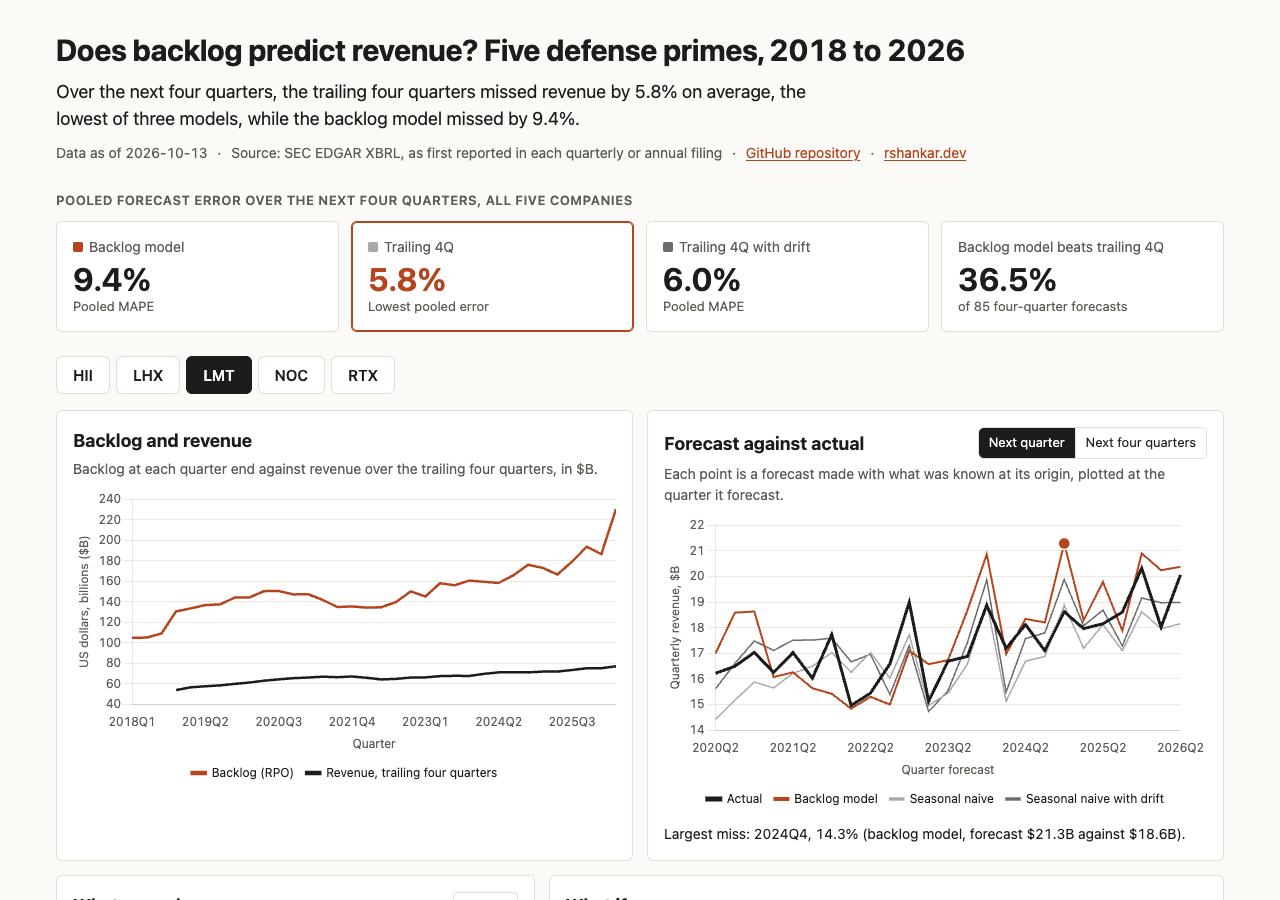
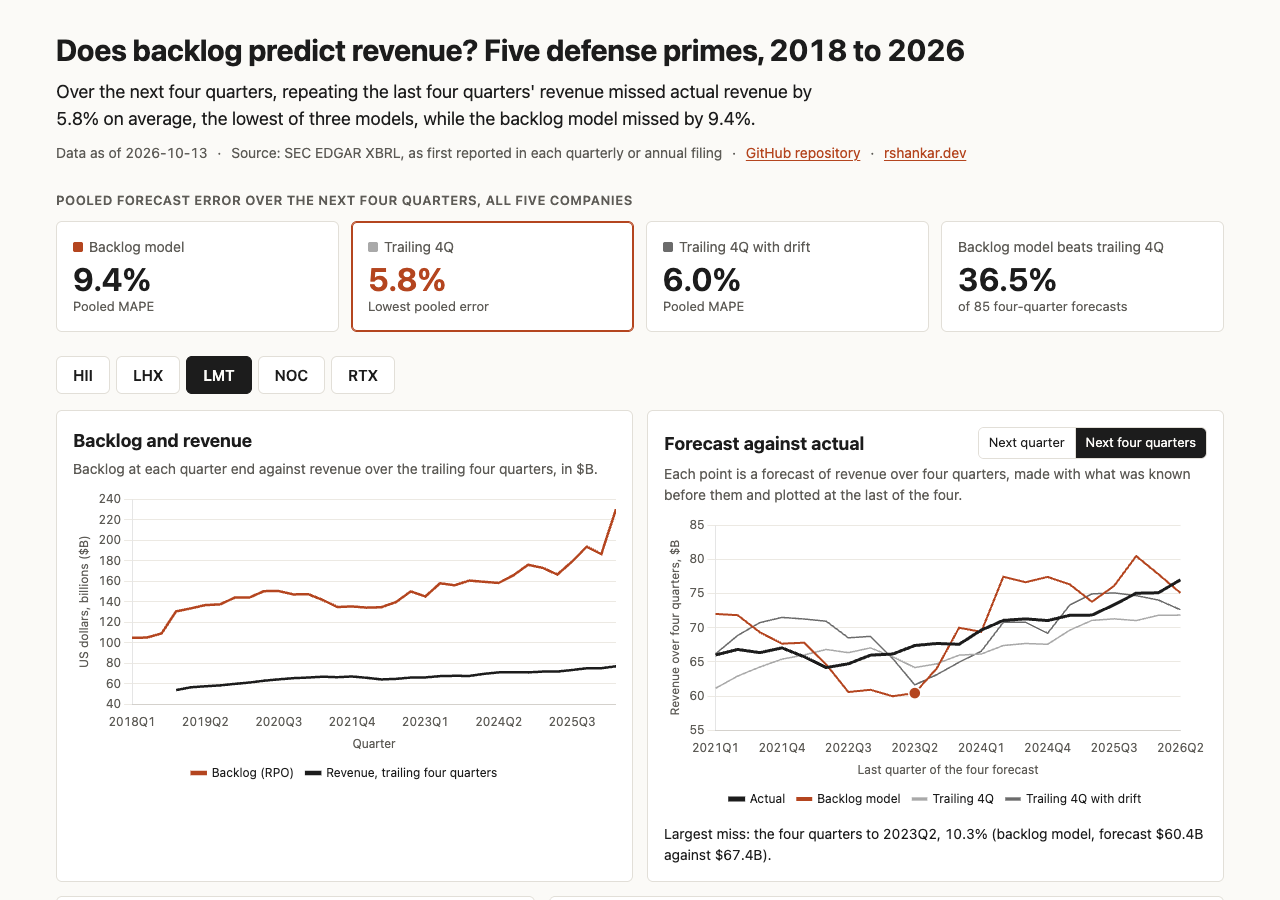
Plainer results wording, Pages links, notes

diff --git a/site/app.js b/site/app.js
@@ -6,11 +6,15 @@
     h1: { backlog: "Backlog model", naive: "Seasonal naive", naive_drift: "Seasonal naive with drift" },
     h4: { backlog: "Backlog model", naive: "Trailing 4Q", naive_drift: "Trailing 4Q with drift" }
   };
-  var PHRASE = { backlog: "the backlog model", naive: "the trailing four quarters", naive_drift: "the trailing four quarters with drift" };
+  var PHRASE = {
+    backlog: "the backlog model",
+    naive: "repeating the last four quarters' revenue",
+    naive_drift: "repeating the last four quarters' revenue grown at its recent rate"
+  };
   var MODELS = ["backlog", "naive", "naive_drift"];
 
   var data, tickers, charts = {};
-  var state = { ticker: null, view: "h1", year: null, shock: null, shift: null };
+  var state = { ticker: null, view: "h4", year: null, shock: null, shift: null };
   var reduceMotion = window.matchMedia("(prefers-reduced-motion: reduce)");
   var darkMode = window.matchMedia("(prefers-color-scheme: dark)");
 
@@ -61,7 +65,7 @@
   function renderHeader() {
     var m = data.metrics, h4 = m.mape.H4;
     var best = MODELS.slice().sort(function (a, b) { return h4[a].ALL - h4[b].ALL; })[0];
-    var line = "Over the next four quarters, " + PHRASE[best] + " missed revenue by " + pct(h4[best].ALL) +
+    var line = "Over the next four quarters, " + PHRASE[best] + " missed actual revenue by " + pct(h4[best].ALL) +
       " on average, the lowest of three models";
     line += best === "backlog" ? "." : ", while the backlog model missed by " + pct(h4.backlog.ALL) + ".";
     $("headline").textContent = line;
@@ -149,7 +153,7 @@
     $("c-backlog").setAttribute("aria-label", co.ticker + " backlog and trailing four-quarter revenue by quarter. At " +
       co.quarters[L] + ", backlog was " + billions(co.backlog_usd[L]) + " and trailing revenue " + billions(co.ttm_revenue_usd[L]) + ".");
     $("backlog-note").textContent = "Backlog at each quarter end against revenue over the trailing four quarters, in $B." +
-      (gaps.length ? " Breaks in the backlog line are quarters with no backlog tagged in the filing: " + gaps.join(", ") + "." : "");
+      (gaps.length ? " Breaks in the backlog line are quarters whose filings tag no backlog for the quarter's own end: " + gaps.join(", ") + "." : "");
   }
 
   function renderForecast(co, c) {
@@ -192,10 +196,14 @@
     makeChart("c-fc", { type: "line", data: { labels: block.target, datasets: datasets }, options: opts });
 
     var skipped = block.backlog.filter(function (x) { return x == null; }).length;
-    var cap = worst >= 0 ? "Largest miss: " + block.target[worst] + ", " + pct(apes.backlog[worst]) +
+    var when = v === "h1" ? block.target[worst] : "the four quarters to " + block.target[worst];
+    var cap = worst >= 0 ? "Largest miss: " + when + ", " + pct(apes.backlog[worst]) +
       " (backlog model, forecast " + billions(block.backlog[worst]) + " against " + billions(actual[worst]) + ")." : "";
     if (skipped) cap += " The backlog model skips " + skipped + " origins that need a quarter with no tagged backlog.";
     $("miss").textContent = cap;
+    $("fc-note").textContent = v === "h1"
+      ? "Each point is a forecast of one quarter's revenue, made with what was known a quarter earlier and plotted at the quarter it forecast."
+      : "Each point is a forecast of revenue over four quarters, made with what was known before them and plotted at the last of the four.";
 
     var mape = data.metrics.mape[v.toUpperCase()];
     $("c-fc").setAttribute("aria-label", co.ticker + " " + (v === "h1" ? "next-quarter" : "next-four-quarter") +
@@ -235,7 +243,8 @@
     var yLo = Math.max(0, (lo - pad) / 1e9), yHi = (hi + pad * 0.5) / 1e9;
     var step = Math.pow(10, Math.floor(Math.log10(yHi - yLo)));
     if ((yHi - yLo) / step < 3) step /= 2;
-    opts.scales.y.min = Math.floor(yLo / step) * step;
+    var yMin = Math.floor(yLo / step) * step;
+    opts.scales.y.min = yMin;
     opts.scales.y.max = Math.ceil(yHi / step) * step;
     opts.scales.y.ticks.stepSize = step;
     opts.plugins.tooltip.callbacks = {
@@ -263,7 +272,7 @@
       (r.conversion_prior.toFixed(2) === r.conversion.toFixed(2)
         ? "Conversion held at " + r.conversion.toFixed(2) + " of starting backlog."
         : "Conversion went from " + r.conversion_prior.toFixed(2) + " to " + r.conversion.toFixed(2) + " of starting backlog.") +
-      " The axis starts above zero.";
+      (yMin > 0 ? " The axis starts above zero." : "");
     $("bridge-cap").textContent = cap;
     $("c-bridge").setAttribute("aria-label", co.ticker + " revenue bridge for " + state.year + ". " + cap);
   }
@@ -297,8 +306,14 @@
     $("shock-out").textContent = signedPct(state.shock);
     $("shift-out").textContent = signedPct(state.shift, " pp");
     $("fwd").textContent = billions(val);
-    $("fwd-delta").textContent = d === 0 ? "No change from today's backlog and conversion: " + billions(base)
-      : signedBillions(d) + " (" + (d < 0 ? "−" : "+") + Math.abs(d / base * 100).toFixed(1) + "%) against " + billions(base) + " with no change";
+    $("fwd-delta").textContent = d === 0 ? "Latest backlog at the average conversion rate of the past four origins: " + billions(base)
+      : signedBillions(d) + " (" + (d < 0 ? "−" : "+") + Math.abs(d / base * 100).toFixed(1) + "%) against " + billions(base) + " with no shock or shift";
+    var L = co.quarters.length - 1, ttm = co.ttm_revenue_usd[L], bias = data.metrics.bias.H4.backlog[co.ticker];
+    var gap = (base / ttm - 1) * 100;
+    $("fwd-context").textContent = "Revenue over the four quarters to " + co.quarters[L] + " was " + billions(ttm) +
+      ", so the unshocked scenario sits " + Math.abs(gap).toFixed(1) + "% " + (gap >= 0 ? "above" : "below") + " it." +
+      (bias == null ? "" : " In the backtest the backlog model's four-quarter forecasts for " + co.ticker + " ran " +
+        Math.abs(bias).toFixed(1) + "% " + (bias >= 0 ? "high" : "low") + " on average.");
 
     var all = co.sensitivity.map(function (r) { return r.forward_revenue_usd; });
     var mn = Math.min.apply(null, all), mx = Math.max.apply(null, all);
@@ -350,7 +365,7 @@
 
   function syncQuery() {
     var q = new URLSearchParams(location.search);
-    if (state.view !== "h1") q.set("view", state.view); else q.delete("view");
+    if (state.view !== "h4") q.set("view", state.view); else q.delete("view");
     if (state.shock) q.set("shock", state.shock); else q.delete("shock");
     if (state.shift) q.set("shift", state.shift); else q.delete("shift");
     var s = q.toString();

diff --git a/site/index.html b/site/index.html
@@ -41,11 +41,11 @@
       <div class="row">
         <h2 id="fc-title">Forecast against actual</h2>
         <div class="seg" role="group" aria-label="Forecast horizon">
-          <button type="button" data-view="h1" aria-pressed="true">Next quarter</button>
-          <button type="button" data-view="h4" aria-pressed="false">Next four quarters</button>
+          <button type="button" data-view="h1" aria-pressed="false">Next quarter</button>
+          <button type="button" data-view="h4" aria-pressed="true">Next four quarters</button>
         </div>
       </div>
-      <p class="note" id="fc-note">Each point is a forecast made with what was known at its origin, plotted at the quarter it forecast.</p>
+      <p class="note" id="fc-note">Each point is a forecast made with what was known at its origin.</p>
       <div class="chart"><canvas id="c-fc" role="img" aria-label="Forecast against actual chart"></canvas></div>
       <p class="caption" id="miss"></p>
     </section>
@@ -62,7 +62,7 @@
 
     <section class="panel wide" aria-labelledby="whatif-title">
       <h2 id="whatif-title">What if</h2>
-      <p class="note">A scenario, not a prediction. Move backlog and the four-quarter conversion rate away from where they stand at the latest quarter and read the revenue they imply for the next four quarters.</p>
+      <p class="note">A scenario, not a prediction. Start from the latest backlog and the average four-quarter conversion rate of the four origins one to two years back, shift either one, and read the revenue they imply for the next four quarters.</p>
       <div class="whatif">
         <div class="controls">
           <label for="shock">Backlog shock <output id="shock-out" for="shock"></output></label>
@@ -75,6 +75,7 @@
             <div class="big-label">Scenario revenue, next four quarters</div>
             <div class="big-num" id="fwd"></div>
             <div class="big-delta" id="fwd-delta"></div>
+            <p class="big-context" id="fwd-context"></p>
           </div>
         </div>
         <div class="grid-wrap">

diff --git a/site/style.css b/site/style.css
@@ -103,6 +103,7 @@ h2 { font-size: 18px; margin: 0; }
 .big-label { font-size: 13px; color: var(--muted); }
 .big-num { font-size: 38px; font-weight: 650; line-height: 1.1; }
 .big-delta { font-size: 14px; color: var(--muted); }
+.big-context { font-size: 13px; color: var(--ink); margin: 8px 0 0; }
 
 .grid-wrap { min-width: 0; }
 .grid { width: 100%; border-collapse: separate; border-spacing: 3px; font-size: 13px; table-layout: fixed; }

diff --git a/src/dbf/report.py b/src/dbf/report.py
@@ -1,44 +1,72 @@
-"""Rewrite the README's ## Results from results/metrics.json. Running it twice changes nothing."""
+"""Rewrite the README's ## Results from results/. Running it twice changes nothing."""
 
+import csv
 import json
 import re
 
 from dbf.config import RESULTS, ROOT, TICKERS
 
+MODELS = ["backlog", "naive", "naive_drift"]
 NAMES = {
     "H1": {"backlog": "Backlog model", "naive": "Seasonal naive", "naive_drift": "Seasonal naive with drift"},
     "H4": {"backlog": "Backlog model", "naive": "Trailing 4Q", "naive_drift": "Trailing 4Q with drift"},
 }
+HORIZON = {"H1": "Next quarter (H1)", "H4": "Next four quarters (H4)"}
+PHRASE = {"backlog": "the backlog model", "naive": "trailing four-quarter revenue",
+          "naive_drift": "trailing revenue with drift"}
 
 
-PHRASE = {"backlog": "backlog model", "naive": "trailing 4Q baseline",
-          "naive_drift": "trailing 4Q with drift baseline"}
-
-
-def _pct(v, places=2):
+def _pct(v, places=1):
     return "n/a" if v is None else f"{v:.{places}f}%"
 
 
-def results_section(m: dict) -> str:
+def matched_ranking(backtest_rows, horizon) -> tuple[list[str], int, list[str]]:
+    """Model order by MAPE on the origins where the backlog model has a forecast."""
+    rows = [r for r in backtest_rows if r["horizon"] == horizon]
+    keep = {(r["ticker"], r["origin"]) for r in rows if r["model"] == "backlog"}
+    mape = {}
+    for m in MODELS:
+        apes = [float(r["ape_pct"]) for r in rows if r["model"] == m and (r["ticker"], r["origin"]) in keep]
+        mape[m] = sum(apes) / len(apes)
+    extra = [r["ticker"] for r in rows if r["model"] == "naive" and (r["ticker"], r["origin"]) not in keep]
+    return sorted(MODELS, key=mape.get), len(extra), sorted(set(extra))
+
+
+def results_section(m: dict, backtest_rows: list[dict]) -> str:
     h4 = m["mape"]["H4"]
-    order = sorted(h4, key=lambda k: h4[k]["ALL"])
-    best, others = order[0], order[1:]
+    order = sorted(MODELS, key=lambda k: h4[k]["ALL"])
+    best = order[0]
     lines = []
-    lead = (f"Over the next four quarters (H4), the {PHRASE[best]} had the lowest pooled MAPE at "
-            f"{_pct(h4[best]['ALL'])}, against "
-            + " and ".join(f"{_pct(h4[k]['ALL'])} for the {PHRASE[k]}" for k in others) + ".")
-    verdict = ("Backlog at quarter end forecast revenue better than last year's revenue did."
-               if best == "backlog" else
-               "Backlog at quarter end did not forecast revenue better than last year's revenue did.")
-    lines += [lead + " " + verdict, ""]
+    if best == "backlog":
+        lead = "Backlog beat simple trailing revenue."
+    else:
+        lead = "Backlog did not beat simple trailing revenue."
+    lead += (" Over the next four quarters, the backlog model missed actual revenue by "
+             f"{_pct(h4['backlog']['ALL'])} on average, against "
+             + " and ".join(f"{_pct(h4[k]['ALL'])} for {PHRASE[k]}" for k in MODELS if k != "backlog") + ".")
+    winners = [t for t in TICKERS if h4["backlog"][t] is not None
+               and all(h4["backlog"][t] < h4[k][t] for k in ("naive", "naive_drift"))]
+    if winners and best != "backlog":
+        detail = [f"{_pct(h4['backlog'][t])} for backlog against {_pct(h4['naive'][t])} for trailing "
+                  f"four-quarter revenue" for t in winners]
+        if len(winners) == 1:
+            lead += f" {winners[0]} was the exception, at {detail[0]}."
+        else:
+            lead += " The exceptions were " + "; ".join(f"{t}, at {d}" for t, d in zip(winners, detail)) + "."
+    ranking, extra, where = matched_ranking(backtest_rows, "H4")
+    same = ranking == order
+    if extra:
+        lead += (f" The baselines also score {extra} {' and '.join(where)} origins where backlog is missing; on the "
+                 f"origins all three models share, the ranking is {'the same' if same else 'different'}.")
+    lines += [lead, ""]
 
     lines += ["MAPE by horizon, model and company (lower is better):", ""]
     lines += ["| Horizon | Model | ALL | " + " | ".join(TICKERS) + " |",
               "|---|---|---:|" + "---:|" * len(TICKERS)]
     for h in ("H1", "H4"):
-        for k in ("backlog", "naive", "naive_drift"):
+        for k in MODELS:
             row = m["mape"][h][k]
-            lines.append(f"| {h} | {NAMES[h][k]} | {_pct(row['ALL'])} | "
+            lines.append(f"| {HORIZON[h]} | {NAMES[h][k]} | {_pct(row['ALL'])} | "
                          + " | ".join(_pct(row[t]) for t in TICKERS) + " |")
     lines.append("")
 
@@ -46,8 +74,8 @@ def results_section(m: dict) -> str:
     b = m["bias"]
     lines += [
         "The backlog model's error was smaller than the naive baseline's (seasonal naive at H1, "
-        f"trailing 4Q at H4) at {_pct(w['H1']['ALL'], 1)} of H1 origins and "
-        f"{_pct(w['H4']['ALL'], 1)} of H4 origins. "
+        f"trailing 4Q at H4) at {_pct(w['H1']['ALL'])} of H1 origins and "
+        f"{_pct(w['H4']['ALL'])} of H4 origins. "
         f"Its mean signed error was {_pct(b['H1']['backlog']['ALL'])} at H1 and "
         f"{_pct(b['H4']['backlog']['ALL'])} at H4, where a positive value means it forecast too high.",
         "",
@@ -55,8 +83,8 @@ def results_section(m: dict) -> str:
         "|---|---:|" + "---:|" * len(TICKERS),
     ]
     for h in ("H1", "H4"):
-        lines.append(f"| {h} | {_pct(w[h]['ALL'], 1)} | "
-                     + " | ".join(_pct(w[h][t], 1) for t in TICKERS) + " |")
+        lines.append(f"| {HORIZON[h]} | {_pct(w[h]['ALL'])} | "
+                     + " | ".join(_pct(w[h][t]) for t in TICKERS) + " |")
     lines += [
         "",
         f"The backtest scores {m['n']['H1']} backlog-model forecasts at H1 and {m['n']['H4']} at H4. "
@@ -68,11 +96,13 @@ def results_section(m: dict) -> str:
 
 def build(readme=ROOT / "README.md") -> None:
     m = json.loads((RESULTS / "metrics.json").read_text())
+    with (RESULTS / "backtest.csv").open() as fh:
+        backtest_rows = list(csv.DictReader(fh))
     text = readme.read_text()
     pattern = re.compile(r"(## Results\n\n).*?(?=## Method\n)", re.S)
     if not pattern.search(text):
         raise SystemExit("README.md needs a '## Results' section followed by '## Method'")
-    new = pattern.sub(lambda mt: mt.group(1) + results_section(m) + "\n", text, count=1)
+    new = pattern.sub(lambda mt: mt.group(1) + results_section(m, backtest_rows) + "\n", text, count=1)
     if new != text:
         readme.write_text(new)
     print("README ## Results", "updated" if new != text else "unchanged")

diff --git a/src/dbf/charts.py b/src/dbf/charts.py
@@ -109,8 +109,8 @@ def backlog_chart(data):
     leg.plot([], [], color=INK, lw=3, label="Revenue, trailing four quarters")
     leg.legend(loc="center left", frameon=False, fontsize=15)
     fig.text(0.06, 0.93, "Backlog and trailing revenue, $B, by quarter", fontsize=22, weight="bold")
-    fig.text(0.06, 0.895, "Gaps are quarters where the company did not tag backlog in XBRL "
-             "(LHX 2020 to 2021).", fontsize=14, color="#444444")
+    fig.text(0.06, 0.895, "Gaps are quarters whose filings tag no backlog for the quarter's own end "
+             "(LHX, first three quarters of 2020 and 2021).", fontsize=14, color="#444444")
     _source(fig)
     _save(fig, "backlog_vs_revenue.png")
 

diff --git a/README.md b/README.md
@@ -1,32 +1,32 @@
 # Does backlog predict revenue? Five defense primes, 2018 to 2026
 
-[Open the interactive dashboard](https://rishabbshankar226.github.io/defense-backlog-forecast/): pick a company, compare each model's forecasts with what happened, take apart a year's revenue change, and stress next year's revenue.
+[Open the interactive dashboard](https://rishabbshankar226.github.io/Defense-Backlog-forecast/): pick a company, compare each model's forecasts with what happened, take apart a year's revenue change, and stress next year's revenue.
 
-[![The dashboard, showing Lockheed Martin](output/charts/dashboard.png)](https://rishabbshankar226.github.io/defense-backlog-forecast/)
+[![The dashboard, showing Lockheed Martin](output/charts/dashboard.png)](https://rishabbshankar226.github.io/Defense-Backlog-forecast/)
 
-I tested whether the backlog that HII, LHX, LMT, NOC and RTX report at quarter end forecasts their next quarters of revenue better than last year's revenue does, using only what their SEC filings showed at the time.
+I tested whether the backlog that HII, LHX, LMT, NOC and RTX report at quarter end forecasts their revenue over the following one and four quarters better than last year's revenue does, using only what their SEC filings showed at the time.
 
 ## Results
 
-Over the next four quarters (H4), the trailing 4Q baseline had the lowest pooled MAPE at 5.76%, against 6.04% for the trailing 4Q with drift baseline and 9.40% for the backlog model. Backlog at quarter end did not forecast revenue better than last year's revenue did.
+Backlog did not beat simple trailing revenue. Over the next four quarters, the backlog model missed actual revenue by 9.4% on average, against 5.8% for trailing four-quarter revenue and 6.0% for trailing revenue with drift. RTX was the exception, at 4.4% for backlog against 8.5% for trailing four-quarter revenue. The baselines also score 6 LHX origins where backlog is missing; on the origins all three models share, the ranking is the same.
 
 MAPE by horizon, model and company (lower is better):
 
 | Horizon | Model | ALL | HII | LHX | LMT | NOC | RTX |
 |---|---|---:|---:|---:|---:|---:|---:|
-| H1 | Backlog model | 9.89% | 13.74% | 13.59% | 6.20% | 9.03% | 8.34% |
-| H1 | Seasonal naive | 7.31% | 7.30% | 7.84% | 5.37% | 6.32% | 11.21% |
-| H1 | Seasonal naive with drift | 6.52% | 6.81% | 6.81% | 5.25% | 6.00% | 8.52% |
-| H4 | Backlog model | 9.40% | 11.84% | 20.64% | 5.48% | 9.81% | 4.36% |
-| H4 | Trailing 4Q | 5.76% | 5.98% | 7.28% | 3.78% | 4.84% | 8.55% |
-| H4 | Trailing 4Q with drift | 6.04% | 4.83% | 8.65% | 4.10% | 7.43% | 6.41% |
+| Next quarter (H1) | Backlog model | 9.9% | 13.7% | 13.6% | 6.2% | 9.0% | 8.3% |
+| Next quarter (H1) | Seasonal naive | 7.3% | 7.3% | 7.8% | 5.4% | 6.3% | 11.2% |
+| Next quarter (H1) | Seasonal naive with drift | 6.5% | 6.8% | 6.8% | 5.3% | 6.0% | 8.5% |
+| Next four quarters (H4) | Backlog model | 9.4% | 11.8% | 20.6% | 5.5% | 9.8% | 4.4% |
+| Next four quarters (H4) | Trailing 4Q | 5.8% | 6.0% | 7.3% | 3.8% | 4.8% | 8.5% |
+| Next four quarters (H4) | Trailing 4Q with drift | 6.0% | 4.8% | 8.7% | 4.1% | 7.4% | 6.4% |
 
-The backlog model's error was smaller than the naive baseline's (seasonal naive at H1, trailing 4Q at H4) at 45.0% of H1 origins and 36.5% of H4 origins. Its mean signed error was 5.40% at H1 and 4.96% at H4, where a positive value means it forecast too high.
+The backlog model's error was smaller than the naive baseline's (seasonal naive at H1, trailing 4Q at H4) at 45.0% of H1 origins and 36.5% of H4 origins. Its mean signed error was 5.4% at H1 and 5.0% at H4, where a positive value means it forecast too high.
 
 | Win rate vs naive | ALL | HII | LHX | LMT | NOC | RTX |
 |---|---:|---:|---:|---:|---:|---:|
-| H1 | 45.0% | 40.0% | 18.2% | 52.0% | 39.1% | 68.8% |
-| H4 | 36.5% | 40.9% | 25.0% | 22.7% | 30.0% | 69.2% |
+| Next quarter (H1) | 45.0% | 40.0% | 18.2% | 52.0% | 39.1% | 68.8% |
+| Next four quarters (H4) | 36.5% | 40.9% | 25.0% | 22.7% | 30.0% | 69.2% |
 
 The backtest scores 100 backlog-model forecasts at H1 and 85 at H4. The naive models score more, because they need no backlog and LHX has quarters without it.
 
@@ -40,15 +40,15 @@ The design, windows and companies were fixed before any result existed, in [docs
 - **Scoring.** APE is the absolute error over actual revenue. MAPE is its mean; ALL pools every forecast. Win rate is the share of origins where the backlog model's APE is below the naive model's.
 - **Bridge.** Each year's revenue change splits into a backlog effect, a conversion effect and their interaction, with no residual beyond rounding.
 
-The Excel model ([output/defense_backlog_model.xlsx](output/defense_backlog_model.xlsx)) rebuilds every forecast with live formulas.
+The Excel model ([output/defense_backlog_model.xlsx](output/defense_backlog_model.xlsx)) rebuilds every forecast with live formulas. A separate checker, kept outside this repository, pulls the SEC data itself, recomputes every figure in the results, the workbook, the dashboard data and these documents, and compares.
 
 ## Data
 
-All figures come from SEC's XBRL companyfacts API, read as of 2026-10-13. Each company starts where its current form begins: LHX in 2020Q1 after the L3 and Harris merger, NOC in 2018Q3 after it bought Orbital ATK, and RTX in 2020Q2 after the UTC and Raytheon merger.
+All figures come from SEC's XBRL companyfacts API, read as of 2026-10-13. Each company starts where its current form begins: LHX in 2020Q1, after the L3 and Harris merger closed in June 2019 and the six-month transition period it filed on a 10-KT, NOC in 2018Q3 after it bought Orbital ATK, and RTX in 2020Q2 after the UTC and Raytheon merger.
 
 General Dynamics is left out. Its 10-Qs last tagged remaining performance obligations for the quarter ended September 2018, and its revenue facts since 2021 are full-year only, so quarterly backlog and revenue cannot be built from XBRL.
 
-LHX's 10-Qs for 2020 and 2021 tag backlog only at the prior year end, never at the quarter's own end. Those six quarters have no backlog, so the backlog model skips every forecast that needs one. The baselines do not need backlog and keep those quarters.
+LHX's 10-Qs for the first three quarters of 2020 and 2021 never tag backlog at the quarter's own end: the 2020Q1 filing tags none, and the rest tag only the prior year end. Those six quarters have no backlog, so the backlog model skips every forecast that needs one. The baselines do not need backlog and keep those quarters.
 
 `data/raw/MANIFEST.json` records the hash and size of each companyfacts file used.
 
@@ -58,9 +58,9 @@ LHX's 10-Qs for 2020 and 2021 tag backlog only at the prior year end, never at t
 - **Implied bookings are a residual.** Backlog change plus revenue also absorbs cancellations, currency moves and acquisitions, so it is not a clean orders number.
 - **Conversion is held constant.** The backlog model assumes the next conversion rate matches recent ones. Program mix and contract timing move it.
 - **RTX's backlog includes commercial aerospace**, which follows airline demand rather than defense budgets.
-- **The merger start dates shorten the sample.** LHX and RTX start in 2020 and NOC in 2018Q3, so their first backtest origins come two years later.
+- **The merger start dates shorten the sample.** LHX and RTX start in 2020 and NOC in 2018Q3. The first backtest origin is two years after each start, and later still for LHX's backlog model, which first has the inputs it needs at 2022Q4 (next quarter) and 2023Q3 (next four quarters).
 - **H4 windows overlap.** Consecutive four-quarter forecasts share three quarters of actuals, so the H4 forecasts are far from independent and the pooled MAPE is less certain than its count suggests.
-- **HII's tagged backlog jumps between 2018Q4 and 2019Q1.** I found no filing sentence giving the reason, so I describe it and leave it there.
+- **HII's tagged backlog jumps between 2018Q4 and 2019Q1**, from $23.0B to $40.6B. Forecasts made in 2020 average conversion rates from before and after the jump, and they are HII's largest backlog-model misses at both horizons. The same jump produces the large backlog effect in HII's 2020 bridge. I found no filing sentence giving the reason, so I describe it and stop there.
 
 ## Reproduce
 

diff --git a/docs/NOTES.md b/docs/NOTES.md
@@ -1,0 +1,27 @@
+# Notes
+
+Choices I made while building this, and the reasons for them.
+
+## Data
+
+- **LHX backlog gaps.** LHX's 10-Qs for the first three quarters of 2020 and 2021 never tag `RevenueRemainingPerformanceObligation` at the quarter's own end. The 2020Q1 filing tags none, and the rest tag only the prior fiscal year end (2020-01-03 or 2021-01-01). Quarterly tagging starts with the 10-Q for 2022Q1 (accession 0000202058-22-000029). I kept LHX as preregistered. The backlog model skips any forecast that needs one of those six quarters, so it scores fewer LHX forecasts than the two baselines.
+- **HII's backlog jump.** HII's tagged backlog goes from $23.0B at 2018Q4 to $40.6B at 2019Q1. I found no filing sentence that explains it, so the README describes it and stops there.
+- **Raw files stay out of git.** `make data` fetches a companyfacts file only when it is missing, and `data/raw/MANIFEST.json` records each file's hash and size.
+
+## Model
+
+- **Bridge residual.** I compute the residual as the revenue change less the sum of the three effects, which follows the preregistered wording. Subtracting the effects one at a time moves the float result by about a millionth of a dollar. Either way it is rounding noise.
+- **Pooled comparisons.** The baselines score more forecasts than the backlog model because of the LHX gaps. `report.py` also ranks the three models on the forecasts they share and prints whether the ranking holds. It does.
+
+## Workbook
+
+- Every sheet except `About` freezes panes at `B2`. `About` is a single column of text.
+- openpyxl stamps the save time into the file, so I pin the document dates and zip entry times to the as-of date. A rebuild writes identical bytes.
+
+## Dashboard
+
+- At desktop width the backlog and forecast panels share a row, and the bridge sits beside the what-if panel, which needs room for its 5 by 5 grid. Below 900 px everything stacks.
+- The forecast panel opens on the four-quarter view to match the scoreboard. The lowest-error tile carries the accent colour, and its label says why.
+- The what-if panel shows trailing four-quarter revenue and the company's backtest bias next to the scenario, since the unshocked scenario can sit well above recent revenue.
+- Headless Chrome on macOS will not open a window narrower than 500 px. To check the 390 px phone layout, I loaded the page in a 390 px iframe and confirmed it has no sideways scroll for any company.
+- GitHub Pages serves the site at `/Defense-Backlog-forecast/`, matching the repository name. The lowercase path returns 404.
